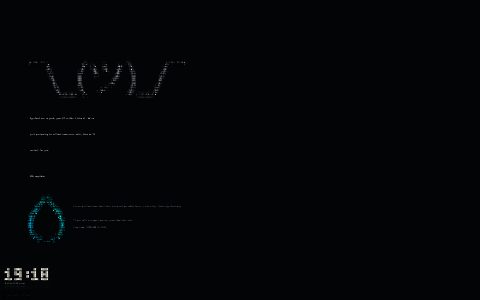
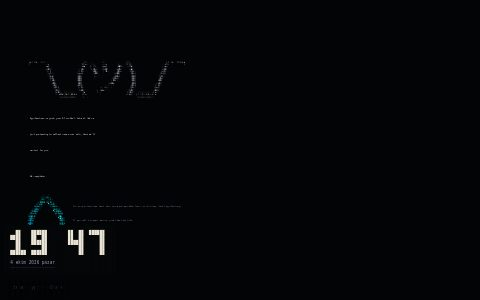
Görsel temalarda saat ve panel normal boyutta
Sık ızgaralı (fontScale < 1) temalarda saat, sistem paneli, tema adı ve
bildirim ayrı, normal yazı boyutlu bir arayüz katmanına çizilir; sahne sık
kalır. Sayfa ve ekran koruyucu aynı şekilde çalışır.

Claude-Session: https://claude.ai/code/session_01GgK2BVgmbD12pwRJD7Xd8H

Changed region(s): [[0.0, 0.72, 0.2188, 0.96], [0.0938, 0.27, 0.125, 0.3]]

diff --git a/web/js/main.js b/web/js/main.js
@@ -21,7 +21,7 @@
 
   const state = {
     theme: null, themeState: null, grid: new AW.Grid(10, 10),
-    cw: 8, ch: 16, fontScale: 1, showPanel: params.get("panel") !== "0" && store.get("panel") !== "0",
+    cw: 8, ch: 16, fontScale: 1, font: "", showPanel: params.get("panel") !== "0" && store.get("panel") !== "0",
     showClock: params.get("clock") !== "0", showThemeName: params.get("name") !== "0", paused: false,
     toast: "", toastUntil: 0, t: 0, lastFrame: 0, lastDraw: 0,
   };
@@ -76,11 +76,21 @@
     ctx.setTransform(dpr, 0, 0, dpr, 0, 0);
     state.fontScale = (state.theme && state.theme.fontScale) || 1;
     const fs = AW.clamp((innerWidth / 110) * state.fontScale, Math.max(6, 10 * state.fontScale), 16);
-    ctx.font = `${fs}px ${FONT_STACK}`;
     ctx.textBaseline = "top";
+    ctx.font = state.font = `${fs}px ${FONT_STACK}`;
     state.cw = ctx.measureText("M").width;
     state.ch = Math.round(fs * 1.18);
     state.grid.resize(Math.ceil(innerWidth / state.cw), Math.ceil(innerHeight / state.ch), state.cw / state.ch);
+    // Sık ızgaralı temalarda saat, panel ve tema adı normal boyutlu ayrı bir katmana çizilir
+    if (state.fontScale !== 1) {
+      const ufs = AW.clamp(innerWidth / 110, 10, 16);
+      ctx.font = ui.font = `${ufs}px ${FONT_STACK}`;
+      ui.cw = ctx.measureText("M").width;
+      ui.ch = Math.round(ufs * 1.18);
+      ui.grid = new AW.Grid(Math.ceil(innerWidth / ui.cw), Math.ceil(innerHeight / ui.ch), ui.cw / ui.ch);
+      ui.on = new Uint8Array(ui.grid.cols * ui.grid.rows);
+      ctx.font = state.font;
+    } else ui.grid = null;
     drawn.full = true; // canvas boyutu değişince içeriği silinir
     if (state.theme) initTheme();
   }
@@ -88,6 +98,15 @@
   // Bir önceki karede ekranda olan hücreler. Yalnız değişen hücreler yeniden çizilir: görsel temalarda
   // hücrelerin çoğu kareden kareye aynı kalır, sık ızgarada her kareyi baştan çizmek gereksiz pahalı.
   const drawn = { ch: [], fg: [], bg: [], base: null, full: true };
+  // Arayüz katmanı (yalnız sık ızgaralı temalarda): on = hücre bir önceki karede doluydu
+  const ui = { grid: null, on: null, cw: 8, ch: 16, font: "" };
+
+  // Yarı saydam zemin (panel) eski çizimin üstüne binmesin diye önce temanın zemini
+  function cell(x0, y0, w, h, c, fg, bg, base) {
+    if (!bg || bg.charCodeAt(3) === 97) { ctx.fillStyle = base; ctx.fillRect(x0, y0, w, h); }
+    if (bg) { ctx.fillStyle = bg; ctx.fillRect(x0, y0, w, h); }
+    if (fg) { ctx.fillStyle = fg; ctx.fillText(c, x0, y0 + 1); }
+  }
 
   function render() {
     const g = state.grid, { cw, ch } = state, n = g.cols * g.rows;
@@ -101,7 +120,21 @@
       drawn.base = base;
       drawn.full = false;
     }
-    let last = null;
+    const u = ui.grid;
+    if (u) {
+      // Kaybolan arayüz hücrelerinin altındaki sahne hücreleri yeniden çizilsin
+      for (let k = 0; k < u.ch.length; k++) {
+        const on = u.bg[k] || u.ch[k] !== " " ? 1 : 0;
+        if (ui.on[k] && !on) {
+          const ux = k % u.cols, uy = (k / u.cols) | 0;
+          const xa = Math.floor((ux * ui.cw) / cw), xb = Math.min(g.cols - 1, Math.floor(((ux + 1) * ui.cw - 0.01) / cw));
+          const ya = Math.floor((uy * ui.ch) / ch), yb = Math.min(g.rows - 1, Math.floor(((uy + 1) * ui.ch - 0.01) / ch));
+          for (let y = ya; y <= yb; y++) for (let x = xa; x <= xb; x++) drawn.ch[y * g.cols + x] = undefined;
+        }
+        ui.on[k] = on;
+      }
+    }
+    ctx.font = state.font;
     for (let y = 0; y < g.rows; y++) {
       const top = y * ch;
       for (let x = 0; x < g.cols; x++) {
@@ -110,13 +143,18 @@
         if (c === drawn.ch[k] && fg === drawn.fg[k] && bg === drawn.bg[k]) continue;
         drawn.ch[k] = c; drawn.fg[k] = fg; drawn.bg[k] = bg;
         // Hücreler tam piksellere oturur: komşular arasında boşluk ya da üst üste binme kalmaz
-        const x0 = Math.floor(x * cw), x1 = Math.floor((x + 1) * cw);
-        ctx.fillStyle = last = bg || base;
-        ctx.fillRect(x0, top, x1 - x0, ch);
-        if (!fg) continue;
-        if (fg !== last) ctx.fillStyle = last = fg;
-        ctx.fillText(c, x * cw, top + 1);
+        const x0 = Math.floor(x * cw);
+        cell(x0, top, Math.floor((x + 1) * cw) - x0, ch, c, fg, bg, base);
       }
+    }
+    if (!u) return;
+    // Arayüz katmanı her karede baştan çizilir (birkaç yüz hücre); altındaki sahne değişse de üstte kalır
+    ctx.font = ui.font;
+    for (let k = 0; k < u.ch.length; k++) {
+      if (!ui.on[k]) continue;
+      const x = k % u.cols, y = (k / u.cols) | 0, c = u.ch[k];
+      const x0 = Math.floor(x * ui.cw), y0 = y * ui.ch;
+      cell(x0, y0, Math.floor((x + 1) * ui.cw) - x0, ui.ch, c, c === " " ? null : u.fg[k] || null, u.bg[k] || null, base);
     }
   }
 
@@ -124,7 +162,8 @@
     const g = state.grid;
     g.clear();
     state.theme.frame(g, state.t, dt, S, state.themeState);
-    AW.drawUI(g, new Date(), state.t, S, state.theme.ui, {
+    if (ui.grid) ui.grid.clear();
+    AW.drawUI(ui.grid || g, new Date(), state.t, S, state.theme.ui, {
       showPanel: state.showPanel, showClock: state.showClock, reduceMotion,
       themeName: state.theme.name, showThemeName: state.showThemeName,
       toast: state.toast, toastUntil: state.toastUntil,

diff --git a/web/js/headless.js b/web/js/headless.js
@@ -2,14 +2,16 @@
 // olmadan çalıştırır. Her kare tek bir metin olarak döner; hücre başına 5 UTF-16 birimi:
 // karakter, yazı rengi (2 birim) ve zemin rengi (2 birim). Renk birimleri: üst = 1 + 12 bit,
 // alt = 12 bit (r8 g8 b8); üst birim 0 ise renk yok. Yarı saydam renkler temanın zeminiyle
-// önceden karıştırılır. index.html'deki betiklerden sonra (main.js hariç) yüklenir.
+// önceden karıştırılır. resizeUI ile ayrı bir arayüz ızgarası kurulduysa (sık ızgaralı temalarda saat ve
+// panel normal boyutta kalsın diye) arayüz oraya çizilir ve hücreleri sahnenin hücrelerinden sonra gelir.
+// index.html'deki betiklerden sonra (main.js hariç) yüklenir.
 (function (G) {
   const AW = G.AW;
   const S = {
     cpu: 20, ram: 8, ramTotal: 16, battery: null, charging: false, onBattery: false,
     down: 0, up: 0, cpuHist: Array(40).fill(20), netHist: Array(40).fill(0), track: "", weather: "", live: true,
   };
-  const st = { grid: new AW.Grid(10, 10), theme: null, themeState: null, t: 0, showPanel: false, showClock: true, showThemeName: true };
+  const st = { grid: new AW.Grid(10, 10), ui: null, theme: null, themeState: null, t: 0, showPanel: false, showClock: true, showThemeName: true };
   let base = [0, 0, 0];
   let cache = new Map();
 
@@ -68,6 +70,10 @@
       st.grid.resize(cols, rows, aspect);
       if (st.theme) initTheme();
     },
+    // Arayüz katmanının ızgarası; cols 0 ise arayüz sahne ızgarasına çizilir
+    resizeUI(cols, rows, aspect) {
+      st.ui = cols > 0 && rows > 0 ? new AW.Grid(cols, rows, aspect) : null;
+    },
     setOptions(panel, clock, name) {
       st.showPanel = !!panel;
       st.showClock = !!clock;
@@ -79,27 +85,34 @@
       S.netHist.push(S.down); S.netHist.shift();
     },
     frame(dt) {
-      const g = st.grid;
+      const g = st.grid, u = st.ui;
       st.t += dt;
       g.clear();
       st.theme.frame(g, st.t, dt, S, st.themeState);
-      AW.drawUI(g, new Date(), st.t, S, st.theme.ui, {
+      if (u) u.clear();
+      AW.drawUI(u || g, new Date(), st.t, S, st.theme.ui, {
         showPanel: st.showPanel, showClock: st.showClock, themeName: st.theme.name, showThemeName: st.showThemeName,
       });
-      const n = g.cols * g.rows, out = new Array(n * 5);
-      for (let k = 0, o = 0; k < n; k++, o += 5) {
-        let c = g.ch[k].charCodeAt(0) || 32;
-        if (c >= 0xd800 && c <= 0xdfff) c = 63; // vekil çiftler tek birime sığmaz
-        const f = g.fg[k] && c !== 32 ? code(g.fg[k]) : 0, b = code(g.bg[k]);
-        out[o] = c;
-        out[o + 1] = f ? 1 + ((f - 1) >> 12) : 0;
-        out[o + 2] = f ? (f - 1) & 4095 : 0;
-        out[o + 3] = b ? 1 + ((b - 1) >> 12) : 0;
-        out[o + 4] = b ? (b - 1) & 4095 : 0;
-      }
+      const n = g.cols * g.rows, out = new Array((n + (u ? u.cols * u.rows : 0)) * 5);
+      encode(g, out, 0);
+      if (u) encode(u, out, n * 5);
       let s = "";
       for (let i = 0; i < out.length; i += 8192) s += String.fromCharCode.apply(null, out.slice(i, i + 8192));
       return s;
     },
   };
+
+  function encode(g, out, start) {
+    const n = g.cols * g.rows;
+    for (let k = 0, o = start; k < n; k++, o += 5) {
+      let c = g.ch[k].charCodeAt(0) || 32;
+      if (c >= 0xd800 && c <= 0xdfff) c = 63; // vekil çiftler tek birime sığmaz
+      const f = g.fg[k] && c !== 32 ? code(g.fg[k]) : 0, b = code(g.bg[k]);
+      out[o] = c;
+      out[o + 1] = f ? 1 + ((f - 1) >> 12) : 0;
+      out[o + 2] = f ? (f - 1) & 4095 : 0;
+      out[o + 3] = b ? 1 + ((b - 1) >> 12) : 0;
+      out[o + 4] = b ? (b - 1) & 4095 : 0;
+    }
+  }
 })(globalThis);

diff --git a/mac/Saver/AsciiSaverView.swift b/mac/Saver/AsciiSaverView.swift
@@ -9,10 +9,13 @@ final class AsciiSaverView: ScreenSaverView {
     private let engine: AsciiEngine?
     private let stats = StatsMonitor()
     private var renderer: AsciiRenderer?
+    private var uiRenderer: AsciiRenderer?
     private var info: AsciiEngine.Info?
     private var background = CGColor(gray: 0, alpha: 1)
     private var grid = (cols: 0, rows: 0)
+    private var uiGrid = (cols: 0, rows: 0)
     private var cells: [UInt16] = []
+    private var uiCells: [UInt16] = []
     private var themeID = ""
     private var lastFrame: TimeInterval = 0
     private var lastStats: TimeInterval = 0
@@ -68,11 +71,31 @@ final class AsciiSaverView: ScreenSaverView {
         let size = renderer.gridSize(for: bounds.size)
         engine.resize(cols: size.cols, rows: size.rows, aspect: size.aspect)
         grid = (size.cols, size.rows)
+        // Sık ızgaralı temalarda saat ve panel normal boyutlu ayrı bir katmana çizilir (sayfadaki gibi)
+        if info.fontScale != 1 {
+            let ui = AsciiRenderer(width: bounds.width, fontScale: 1)
+            let uiSize = ui.gridSize(for: bounds.size)
+            engine.resizeUI(cols: uiSize.cols, rows: uiSize.rows, aspect: uiSize.aspect)
+            uiGrid = (uiSize.cols, uiSize.rows)
+            uiRenderer = ui
+        } else {
+            engine.resizeUI(cols: 0, rows: 0, aspect: 0.5)
+            uiGrid = (0, 0)
+            uiRenderer = nil
+        }
         background = CGColor(srgbRed: info.bg.r / 255, green: info.bg.g / 255, blue: info.bg.b / 255, alpha: 1)
         self.info = info
         self.renderer = renderer
         sendStats()
-        cells = engine.frame(dt: 0.05)
+        takeFrame(dt: 0.05)
+    }
+
+    private func takeFrame(dt: Double) {
+        guard let engine else { return }
+        let all = engine.frame(dt: dt)
+        let n = grid.cols * grid.rows * 5
+        cells = Array(all.prefix(n))
+        uiCells = all.count > n ? Array(all[n...]) : []
     }
 
     override func setFrameSize(_ newSize: NSSize) {
@@ -97,13 +120,13 @@ final class AsciiSaverView: ScreenSaverView {
     }
 
     override func animateOneFrame() {
-        guard let engine else { return }
+        guard engine != nil else { return }
         if renderer == nil { layoutGrid() }
         let now = ProcessInfo.processInfo.systemUptime
         let dt = lastFrame > 0 ? min(0.25, now - lastFrame) : 0.05
         lastFrame = now
         if now - lastStats >= 1 { sendStats() }
-        cells = engine.frame(dt: dt)
+        takeFrame(dt: dt)
         needsDisplay = true
     }
 
@@ -128,6 +151,9 @@ final class AsciiSaverView: ScreenSaverView {
             return
         }
         renderer.draw(cells: cells, cols: grid.cols, rows: grid.rows, background: background, in: ctx, height: bounds.height)
+        if let uiRenderer, uiCells.count >= uiGrid.cols * uiGrid.rows * 5 {
+            uiRenderer.draw(cells: uiCells, cols: uiGrid.cols, rows: uiGrid.rows, background: nil, in: ctx, height: bounds.height)
+        }
     }
 
     // MARK: Ayarlar penceresi

diff --git a/mac/Saver/AsciiRenderer.swift b/mac/Saver/AsciiRenderer.swift
@@ -63,10 +63,13 @@ final class AsciiRenderer {
         return result
     }
 
-    /// cells: hücre başına [karakter, yazı üst, yazı alt, zemin üst, zemin alt]
-    func draw(cells: [UInt16], cols: Int, rows: Int, background: CGColor, in ctx: CGContext, height: CGFloat) {
-        ctx.setFillColor(background)
-        ctx.fill(CGRect(x: 0, y: 0, width: CGFloat(cols) * cellWidth + 1, height: height))
+    /// cells: hücre başına [karakter, yazı üst, yazı alt, zemin üst, zemin alt].
+    /// background nil ise (arayüz katmanı) boş hücreler saydam kalır.
+    func draw(cells: [UInt16], cols: Int, rows: Int, background: CGColor?, in ctx: CGContext, height: CGFloat) {
+        if let background {
+            ctx.setFillColor(background)
+            ctx.fill(CGRect(x: 0, y: 0, width: CGFloat(cols) * cellWidth + 1, height: height))
+        }
         guard cells.count >= cols * rows * 5 else { return }
 
         // Zeminler: aynı renkli yan yana hücreleri tek dikdörtgende birleştir

diff --git a/mac/Saver/AsciiEngine.swift b/mac/Saver/AsciiEngine.swift
@@ -66,6 +66,11 @@ final class AsciiEngine {
         api.invokeMethod("resize", withArguments: [cols, rows, aspect])
     }
 
+    /// Sık ızgaralı temalarda saat ve panel için ayrı ızgara; cols 0 ise arayüz sahneye çizilir
+    func resizeUI(cols: Int, rows: Int, aspect: Double) {
+        api.invokeMethod("resizeUI", withArguments: [cols, rows, aspect])
+    }
+
     func setOptions(panel: Bool, clock: Bool, themeName: Bool) {
         api.invokeMethod("setOptions", withArguments: [panel, clock, themeName])
     }
@@ -74,7 +79,7 @@ final class AsciiEngine {
         api.invokeMethod("update", withArguments: [stats])
     }
 
-    /// Bir kare çizer; hücre başına 5 birim (bkz. headless.js)
+    /// Bir kare çizer; hücre başına 5 birim, varsa arayüz ızgarasının hücreleri sonda (bkz. headless.js)
     func frame(dt: Double) -> [UInt16] {
         guard let s = api.invokeMethod("frame", withArguments: [dt])?.toString() else { return [] }
         return Array(s.utf16)

diff --git a/AGENTS.md b/AGENTS.md
@@ -41,7 +41,7 @@ Swift kodu Linux/bulut ortamında derlenemez; Swift değişiklikleri yalnızca m
 - **Dış komutlar:** Uygulama `dev.eymn.ascii-wallpaper.command` adlı dağıtık bildirimi dinler (userInfo değerleri string: `theme`, `next`, `panel`/`clock`/`name` `1|0`, `rotate` dakika). Kabuktan `osascript -l JavaScript` ile gönderilir; bildirimin `object`'i string olmalı (`"riceutil"`), JXA `null`'u NSNull yapıp çökertir. Bu arayüzü değiştirirsen riceutil'i de güncelle.
 - **Ayarlar** `dev.eymn.ascii-wallpaper` UserDefaults alanındadır: `theme`, `showPanel`, `showClock`, `showThemeName`, `rotateMinutes`, `city`, `latitude`, `longitude`.
 - **Tema kimliğini değiştirirken** eskisini `web/js/util.js` içindeki `AW.aliases`'a ekle: kayıtlı ayarlar ve eski komutlar yeni temayı açar, uygulama kayıtlı ayarı yenisine çevirir.
-- **Görsel temalar** varsayılan olarak sık ızgarayla (`fontScale` 0.4) çizilir; zemin hücrenin kendi rengidir, karakter dokuyu verir. Masaüstü sayfası yalnız değişen hücreleri yeniden çizer (`main.js` `render`); yeni bir efekt her karede tüm hücreleri değiştirirse bu kazanç kaybolur.
+- **Görsel temalar** varsayılan olarak sık ızgarayla (`fontScale` 0.4) çizilir; zemin hücrenin kendi rengidir, karakter dokuyu verir. Saat, panel, tema adı ve bildirim bu temalarda normal boyutlu ayrı bir arayüz ızgarasına çizilir (sayfada `main.js` `ui`, ekran koruyucuda `AWH.resizeUI` ve ikinci `AsciiRenderer`); böylece arayüz her temada aynı boyuttadır. Masaüstü sayfası sahnede yalnız değişen hücreleri yeniden çizer (`main.js` `render`), arayüz katmanını her karede üstüne çizer; yeni bir efekt her karede tüm hücreleri değiştirirse bu kazanç kaybolur.
 - **Yeni tema eklerken:** `web/js/themes/` + `web/index.html` script listesi (`main.js`'ten önce), sonra `node scripts/themes-manifest.mjs` ve `node scripts/previews.cjs <kimlik>`, ardından `npm test`.
 - Hava durumu anahtarsız Open-Meteo kullanır; depoya API anahtarı veya sır ekleme.
 - **Kullanıcıya verilen terminal komutlarında yer tutucu yol kullanma** (`/klasorunun/yolu` gibi); kullanıcı komutları olduğu gibi yapıştırır. Gerçek yollar ver.
@@ -261,5 +261,31 @@ Kullanıcı isteği: Misa temasının adı `misa-train` olsun; tüm duvar kağı
 - Swift değişiklikleri (ayar senkronu, yazı boyu alt sınırı) yalnız macOS CI'da derlenir.
 
 #### Bilinen sorunlar ve sonraki adımlar
-- Görsel temalarda saat ve sistem paneli de sık ızgaraya çizildiği için daha küçük görünür.
+- Görsel temalarda saat ve sistem paneli de sık ızgaraya çizildiği için daha küçük görünür (aynı gün sonraki kayıtta düzeltildi).
 - Ekran koruyucu ayarında `deathnote-misa` seçiliyse rastgele temaya düşer (ekran koruyucu Swift tarafında takma ad yok).
+
+### 2026-10-04 — Görsel temalarda saat ve panel boyutu
+
+#### Amaç
+Kullanıcı geri bildirimi: sık ızgaradan sonra görsel temalarda saat ve CPU paneli çok küçük kaldı. Görsel sık kalsın, arayüz diğer temalardaki boyutuna dönsün; masaüstünde ve ekran koruyucuda.
+
+#### Yapılanlar
+- `web/js/main.js`: Temanın `fontScale` değeri 1 değilse arayüz (saat, panel, tema adı, bildirim) normal yazı boyutlu ayrı bir ızgaraya çizilir ve sahnenin üstüne her karede yeniden çizilir. Kaybolan arayüz hücrelerinin altındaki sahne hücreleri yeniden çizilir. Yarı saydam zeminli hücreler önce temanın zeminiyle doldurulur (değişen hücrede eski yazının paneldeki gölgesi kalmasın).
+- `web/js/headless.js`: `resizeUI(cols, rows, aspect)`; kurulduysa arayüz oraya çizilir, hücreleri karenin sonuna eklenir.
+- `mac/Saver/AsciiSaverView.swift`, `AsciiEngine.swift`, `AsciiRenderer.swift`: Ekran koruyucu aynı şekilde normal boyutlu ikinci bir `AsciiRenderer` ile arayüz katmanını çizer; zeminsiz hücreler saydam kalır.
+- `tests/headless.test.mjs`: Arayüz katmanı testi. Görsel temaların önizlemeleri yeniden üretildi.
+
+#### Hedef durumu
+- [x] Sayfada görsel temalarda saat ve panel prosedürel temalarla aynı boyutta (başsız Chromium'da 1710x1112 ekran görüntüsüyle denendi).
+- [ ] Ekran koruyucuda arayüz katmanı: macOS CI'da derlenir ve `check-saver` ile çizilir; gerçek Mac'te `Doğrulanması gerekiyor`.
+
+#### Teknik kararlar
+- Arayüz boyutu prosedürel temalardakiyle aynı (`fontScale` 1) seçildi; PR #7 öncesinde görsel temalarda 0.72 idi, artık tüm temalarda tutarlı.
+- Arayüz katmanı her karede baştan çizilir (birkaç yüz hücre); sahnenin değişen hücreleri altına çizilse de üstte kalır, ayrı bir kapanma hesabı gerekmez.
+
+#### Testler
+- `npm test`: 53 test geçti.
+- Swift değişiklikleri yalnız macOS CI'da derlenir.
+
+#### Bilinen sorunlar ve sonraki adımlar
+- Yok.
